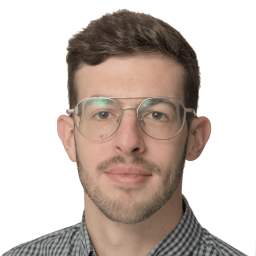
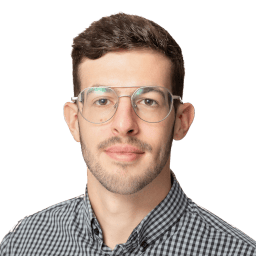
feat(profile): use professionally rendered photos
remove grayscale effect to keep img quality
improve image descriptions
link "profile.jpg" at root
document symlink not working locally

diff --git a/src/app/profile/profile.component.html b/src/app/profile/profile.component.html
@@ -1,8 +1,9 @@
 <!--suppress HtmlUnknownBooleanAttribute (priority attr doesn't need a value!), CheckImageSize -->
 <div class="picture">
-  <img alt="A portrait of {{ realName }}. Appears surprised" class="huh"
+  <img alt="Another portrait of {{ realName }} wearing the same and in the same pose. But appears surprised" class="huh"
        height="128" ngSrc="assets/img/profile_huh.png" width="128">
-  <img alt="A portrait of {{ realName }}. Slightly smiling and wearing geek'ish glasses" class="main"
+  <img alt="A portrait of {{ realName }}. Slightly smiling. Wears 80'ish glasses and a green and black plaid shirt"
+       class="main"
        height="128" ngSrc="assets/img/profile.png" priority width="128">
   <div class="comment">
     Hey! 👋 Did you <span class="touch">tap</span><span class="hover">hover</span> me?

diff --git a/src/_theming.scss b/src/_theming.scss
@@ -33,7 +33,6 @@
  */
 $themes: (
   light: (
-    img-grayscale: 0,
     background: (
       z0: #f8f9f9ff,
       z1: #f1f3f4ff,
@@ -74,7 +73,6 @@ $themes: (
     ),
   ),
   dark: (
-    img-grayscale: 0.4,
     background: (
       z0: #202023ff,
       z1: #292a2dff,

diff --git a/src/app/profile/_profile-theme.scss b/src/app/profile/_profile-theme.scss
@@ -6,7 +6,6 @@
       img {
         background-color: map-get($background-palette, z2);
         border-color: map-get($theme, hairline);
-        filter: grayscale(map-get($theme, img-grayscale));
       }
 
       .comment {

diff --git a/README.md b/README.md
@@ -46,6 +46,12 @@ won't be in sync.
 
 [npm-pre-post-scripts]: https://docs.npmjs.com/cli/v9/using-npm/scripts#pre--post-scripts
 
+## Quirks
+
+### Symlinked static assets don't work when serving locally
+
+When using Angular's development server (either regular or SSR one), symbolic links seem not to work for static assets. So for instance `/profile.jpg` which is symlinked to `/assets/img/og.jpg` won't be served. And the server will redirect you towards main page (`/`). It works when building though, so it will appear in the built version.
+
 ## Further help
 
 To get more help on the Angular CLI use `ng help` or go check out
